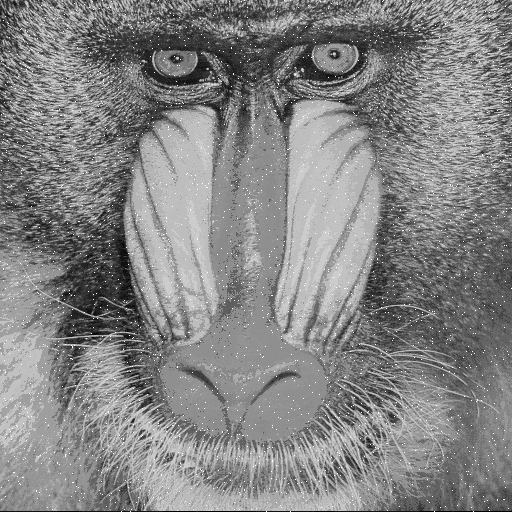
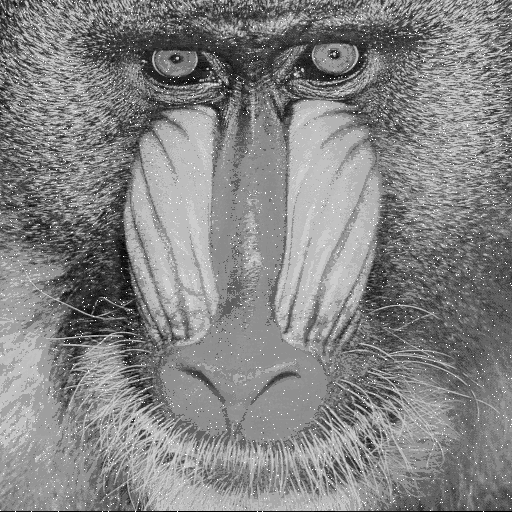
modified histogramEqualization filter

diff --git a/utils/utils_test.go b/utils/utils_test.go
@@ -6,6 +6,37 @@ import (
 	"testing"
 )
 
+func TestQuickSortGray(t *testing.T) {
+	cases := []struct {
+		value    []color.Gray
+		expected []color.Gray
+	}{
+		{
+			value:    []color.Gray{{0}},
+			expected: []color.Gray{{0}},
+		},
+		{
+			value:    []color.Gray{{1}, {0}, {0}},
+			expected: []color.Gray{{0}, {0}, {1}},
+		},
+		{
+			value:    []color.Gray{{128}, {255}, {0}},
+			expected: []color.Gray{{0}, {128}, {255}},
+		},
+		{
+			value:    []color.Gray{{128}, {255}, {0}, {2}, {5}},
+			expected: []color.Gray{{0}, {2}, {5}, {128}, {255}},
+		},
+	}
+
+	for _, c := range cases {
+		SortGray(c.value, 0, len(c.value)-1)
+		if !GraySlicesEqual(c.value, c.expected) {
+			t.Errorf("%s: expected: %#v, actual: %#v", "SortRGBA", c.expected, c.value)
+		}
+	}
+}
+
 func TestRGBASlicesEqual(t *testing.T) {
 	cases := []struct {
 		a        []color.RGBA

diff --git a/filter/filter.go b/filter/filter.go
@@ -236,14 +236,15 @@ func HistogramEqualization(src image.Image) *image.Gray {
 	dst := clone.AsGray(src)
 	w, h := bounds.Dx(), bounds.Dy()
 	hist := histogram.GetGrayHistogram(src)
-	bins := make([]color.Gray, h*dst.Stride + w)
+	bins := make([]color.Gray, h * w)
 	for i := 0; i < h; i++ {
 		for j := 0; j < w; j++ {
 			bins[i*dst.Stride + j], _ = color.GrayModel.Convert(src.At(j, i)).(color.Gray)
 		}
 	}
-	bins = *utils.SortGray_(&bins, 0, len(hist.Y.Bins)-1)
-	var max uint8 = 255
+	utils.SortGray(bins, 0, len(bins)-1)
+	max := bins[len(bins)-1].Y
+	// var max uint8 = 255
 	log.Println(max)
 	cumulated := hist.Y.Cumulate()
 	fn := func(original uint8) uint8 {

diff --git a/utils/utils.go b/utils/utils.go
@@ -16,16 +16,6 @@ func SortGray(data []color.Gray, min, max int) {
 	SortGray(data, p+1, max)
 }
 
-func SortGray_(data *[]color.Gray, min, max int) *[]color.Gray {
-	if min > max {
-		return &[]color.Gray{}
-	}
-	p := partitionGraySlice(*data, min, max)
-	SortGray(*data, min, p-1)
-	SortGray(*data, p+1, max)
-	return data
-}
-
 func partitionGraySlice(data []color.Gray, min, max int) int {
 	pivot := data[max]
 	i := min

diff --git a/main.go b/main.go
@@ -247,4 +247,10 @@ func main() {
 	if err != nil {
 		panic(err)
 	}
+	// Cumulative histogram of histogramEqualization.png
+	cumulativeHistogramEqualizationHistogram := histogram.GetGrayHistogram(histogramEqualization)
+	err = io.Save("./img/histogramImage/cumulativeHistogramEqualizationHistogram.png", cumulativeHistogramEqualizationHistogram.Y.Cumulate().Dump(), io.PNGEncoder())
+	if err != nil {
+		panic(err)
+	}
 }
